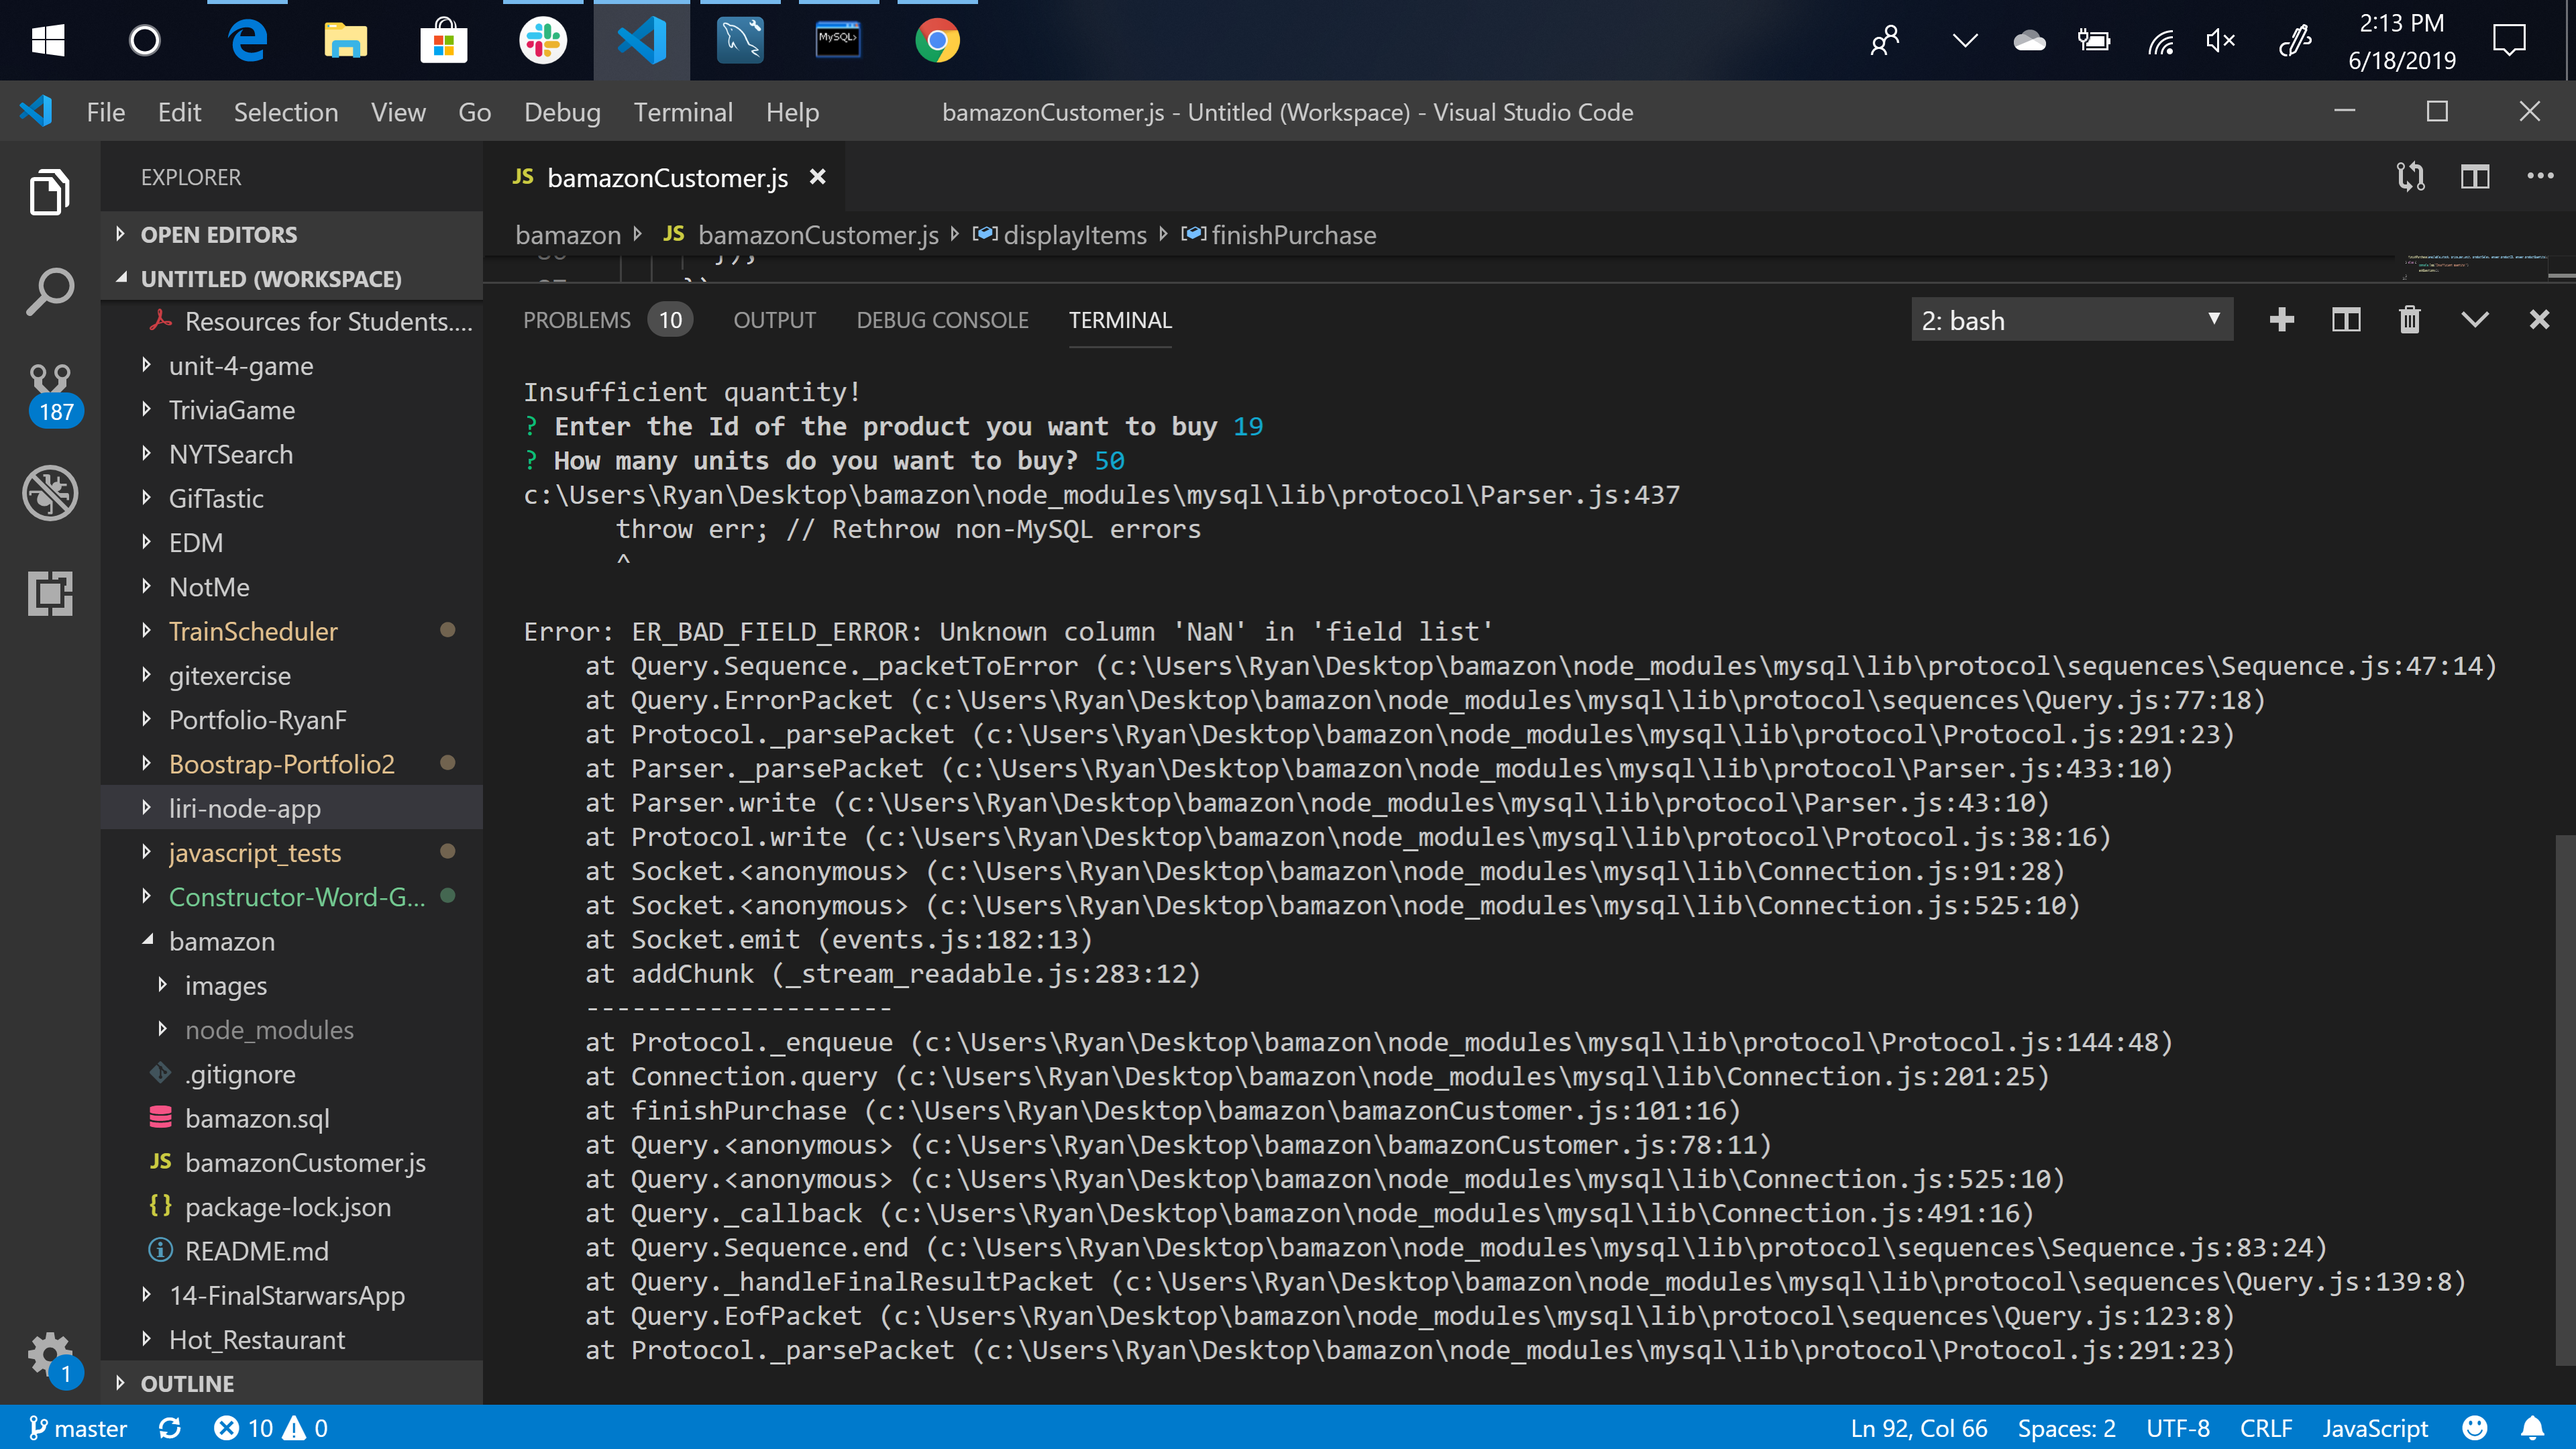
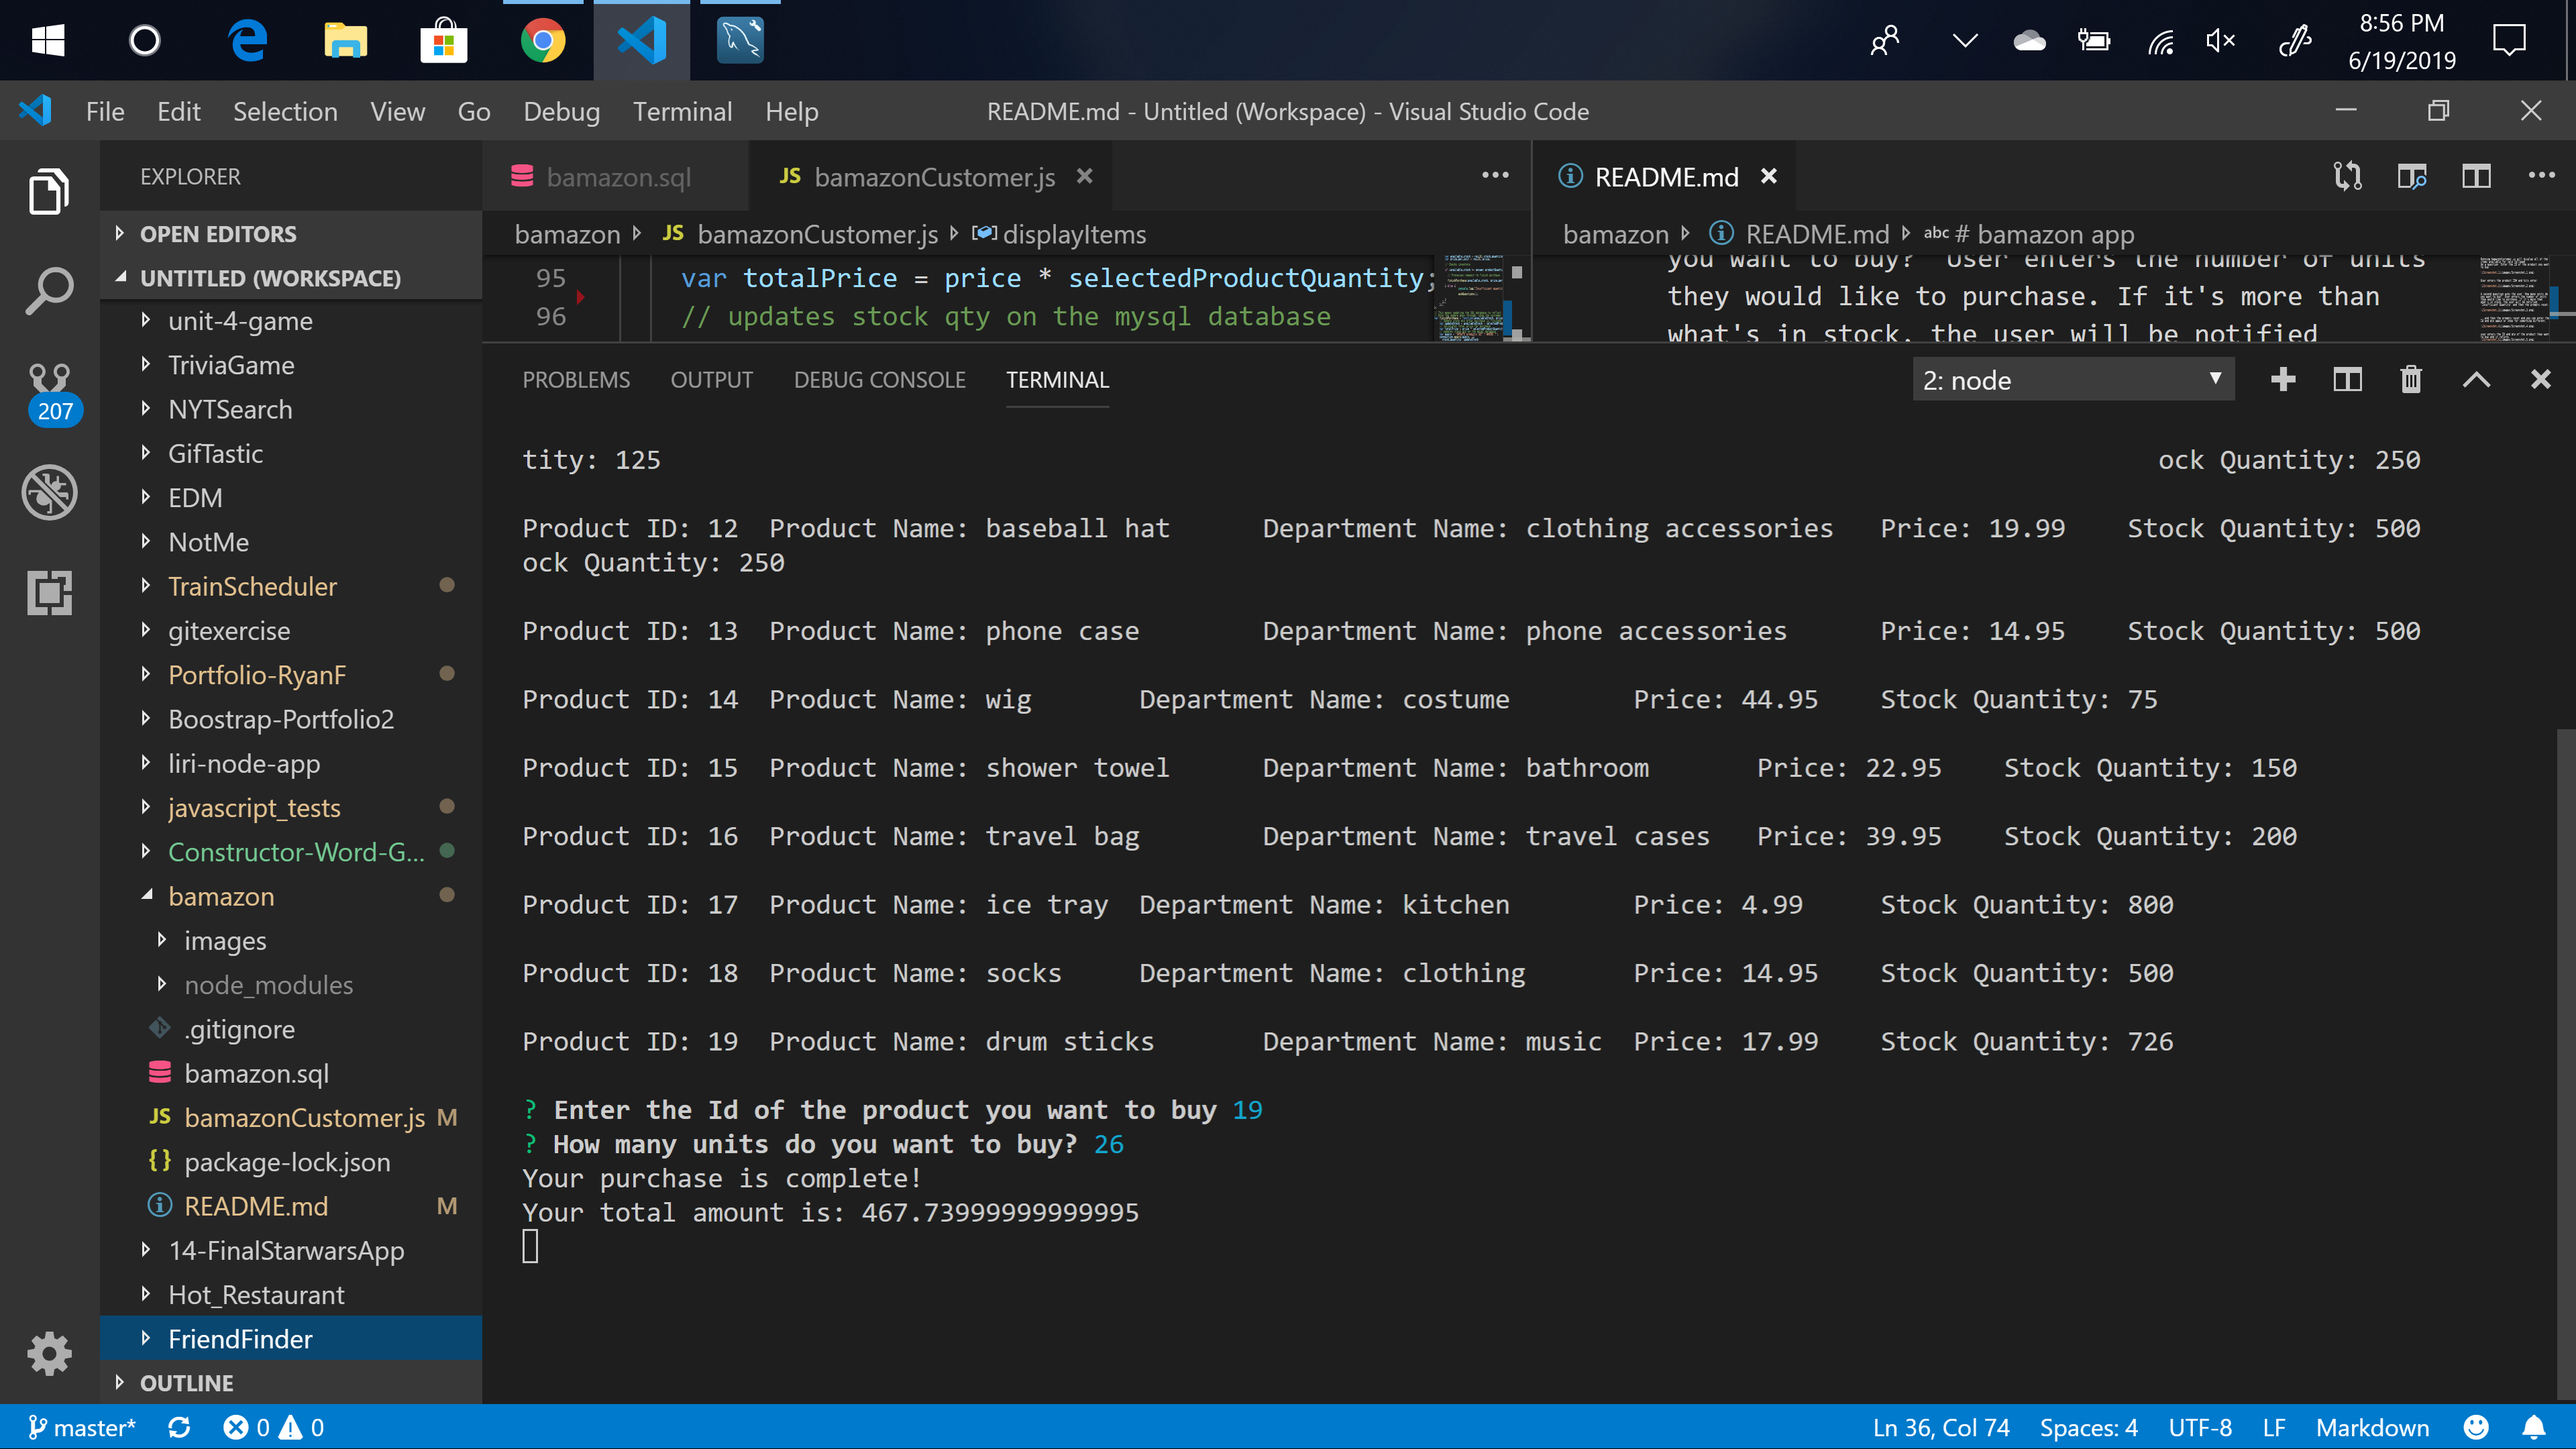
fixed issue

diff --git a/bamazonCustomer.js b/bamazonCustomer.js
@@ -67,7 +67,6 @@ var askQuestions = function() {
 
         var available_stock = res[0].stock_quantity; 
         var price_per_unit = res[0].price; 
-        var productSales = res[0].product_name;  
 
         // Checks inventory 
 
@@ -75,7 +74,7 @@ var askQuestions = function() {
 
           // Processes request to finish purchase 
 
-          finishPurchase(available_stock, price_per_unit, productSales, answer.productID, answer.productQuantity); 
+          finishPurchase(available_stock, price_per_unit, answer.productID, answer.productQuantity); 
 
         } else {
                   console.log("Insufficient quantity!")
@@ -89,18 +88,15 @@ var askQuestions = function() {
 
 // This means updating the SQL database to reflect the remaining quantity.
 // Once the update goes through, show the customer the total cost of their purchase.
-var finishPurchase = function(availableStock, price, productSales, selectedProductID, selectedProductQuantity) {
+var finishPurchase = function(availableStock, price, selectedProductID, selectedProductQuantity) {
     // Update stock qty after purchase is finished 
     var updateStock = availableStock - selectedProductQuantity; 
     // Calculates total price for purchase 
     var totalPrice = price * selectedProductQuantity; 
-    // updates total product sales 
-    var updateProductSales = parseInt(productSales) + parseInt(totalPrice); 
     // updates stock qty on the mysql database 
     var query = "UPDATE products SET ? WHERE ?"; 
     connection.query(query, [{
-      stock_quantity: updateStock, 
-      product_name: updateProductSales 
+      stock_quantity: updateStock
     }, {
       item_id: selectedProductID 
     }], function(err, res) {

diff --git a/README.md b/README.md
@@ -22,19 +22,18 @@ User enters the product ID# and hits enter
 
 ![Screenshot_2](images/Screenshot_2.png)
 
+
 A second question asks the user 'How many units do you want to buy?' User enters the number of units they would like to purchase. If it's more than what's in stock, the user will be notified 'Insufficient Quantity! and then the prompts reset.
 
-
 ![Screenshot_3](images/Screenshot_3.png)
+
 
 ...and then the prompts reset and you can enter the Id and qty again or shop for something different.
 
 ![Screenshot_4](images/Screenshot_4.png)
 
-Issues: 
-    Can't get the function to complete the purchase, update the SQL database to reflect the remaining qty, and display the total cost of     their purchase. 
-    When the user enters in a qty thats less than what's in stock I recieve an error 'ER_BAD_FIELD_ERROR: Unknown column 'NaN' in 'field     list' 
 
+user enters the ID and qty of the product they want to buy and it returns a message 'Your purchase is complete!' and it displays 'Your total amounts is: + totalPrice'
 ![Screenshot_5](images/Screenshot_5.png)
 
 
